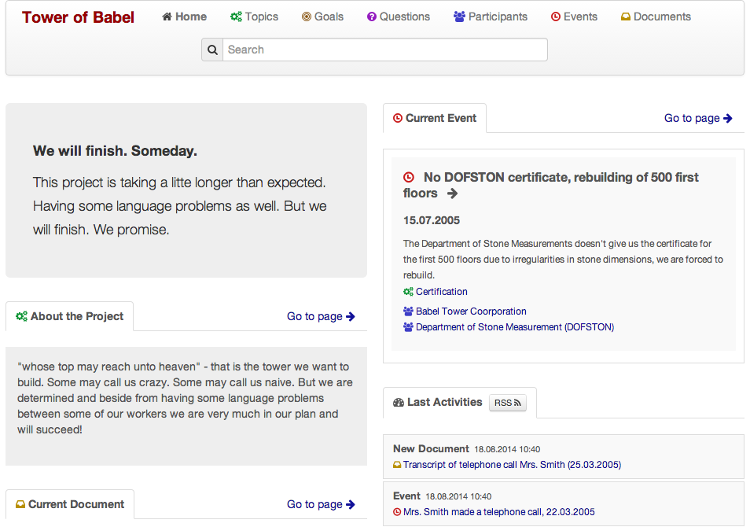
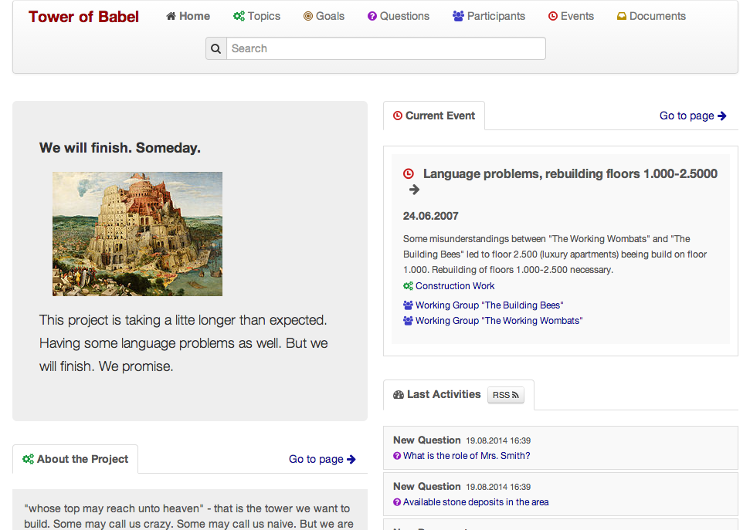
Added image to example project, added tutorial section for website configuration

diff --git a/example_project/ep_setup_app/example_data.py b/example_project/ep_setup_app/example_data.py
@@ -7,6 +7,16 @@ from public_project.models import *
 
 class ExampleData:
 
+    def create_images(self):
+        self.i1 = Image(
+            title = 'Bruegel - Tower of Babel',
+            attribution = 'Pieter Bruegel the Elder - The Tower of Babel (Vienna) - PD Licence, Wikimedia Commons',
+            attribution_url = 'http://commons.wikimedia.org/wiki/File:Pieter_Bruegel_the_Elder_-_The_Tower_of_Babel_(Vienna)_-_Google_Art_Project.jpg', 
+        )
+        img = File(open('ep_setup_app/imgs/Bruegel_Tower_of_Babel.jpg', 'rw'))
+        self.i1.image = img
+        self.i1.save()
+
     def create_site_config(self):
         self.site = Site.objects.all()[0]
         self.site.domain = '127.0.0.1:8075'
@@ -16,8 +26,11 @@ class ExampleData:
         self.sc = SiteConfig(
             title          = 'Tower of Babel',
             short_title    = 'Tower of Babel',
-            intro_text     = "<p><b>We will finish. Someday.</b></p>This project is taking a litte longer than expected. Having some language problems " + \
-                             " as well. But we will finish. We promise.",
+            intro_text     = '<p><strong>We will finish. Someday.</strong></p>\r\n<p>' + \
+                             '<img src="../../../../media/images/Bruegel_Tower_of_Babel_1.jpg" ' + \
+                             'alt="Bruegel - Tower of Babel" /></p>\r\n<p>This project is taking a litte ' + \
+                             'longer than expected. Having some language problems as well. ' + \
+                             'But we will finish. We promise.</p>',
             about_text     = "This project website is run by Tower of Babel International, London, " + \
                              "but is not at all associated with the Babel Tower Coorporation, Antalya or the " + \
                              "Babel Tower Group, Jamaica.",
@@ -423,6 +436,7 @@ class ExampleData:
     
     
     def create(self):
+        self.create_images()
         self.create_site_config()
         self.create_site_categories()
         self.create_project_parts()

diff --git a/docs/tutorial.rst b/docs/tutorial.rst
@@ -33,7 +33,36 @@ and front-end website via the URLs provided.
 
 .. image:: images/screenshots/v06/example_project_dashboard.png
 
-Next Section (coming...)
-========================
+Website Configuration and Categories
+====================================
 
-This is some text. 
+Before you start giving some structure to your project by providing topics and entering information
+about the different stakeholders and important events, you probably want to start with some general 
+set-up of your site.
+
+.. image:: images/screenshots/v06/example_project_admin.png
+
+Website Configuration
+---------------------
+In the "Website Configuration" menu in your project admin you can enter a title for your project,
+a short intro text for the main page and some other generic texts like contact information for the 
+"Contact" page or a short footer text.
+
+.. image:: images/screenshots/v06/admin_website_configuration_form.png
+
+Enter/edit some text and have a look, how your text is formatted at the front-end website.
+
+Side Quest: Adding Images
+-------------------------
+All longer description fields in the admin come with a simple WYSIWYG editor providing some basic formatting
+options like text formatting or text alignment. It is also possible to adding an image to your
+description.
+
+For using an image in a description field you have to first upload it by going to the **"Images" menu** from
+the admin overview page and then add a new image. Upload the image, give it a meaningful title and
+provide attribution information if you took the image from an external source (this will be displayed
+publicly on the website).
+
+
+
+

diff --git a/docs/getting_started.rst b/docs/getting_started.rst
@@ -136,8 +136,9 @@ The urlpatterns for your project are completely coming from DPP, with an excepti
 which should be adoptable for security reasons. So your minimal urls.py should look similar to this,
 importing the main url patterns from ``public_project.urls``::
 
+    from django.conf import settings
     from django.conf.urls import patterns, include, url
-
+    
     from django.contrib import admin
     admin.autodiscover()
     
@@ -146,6 +147,13 @@ importing the main url patterns from ``public_project.urls``::
     urlpatterns += patterns('',
         url(r'^admin/', include(admin.site.urls)),
     )
+
+    # Necessary for being able to use image upload in DEBUG mode
+    if settings.DEBUG:
+        urlpatterns += patterns('',
+            (r'^media/(?P<path>.*)$', 'django.views.static.serve', {
+            'document_root': settings.MEDIA_ROOT})
+        )
 
 Now you should be able to enter both the admin view and an emtpy front-end dashboard site 
 when you start a dev server. The site itself is not yet ready for prime time at this moment.
